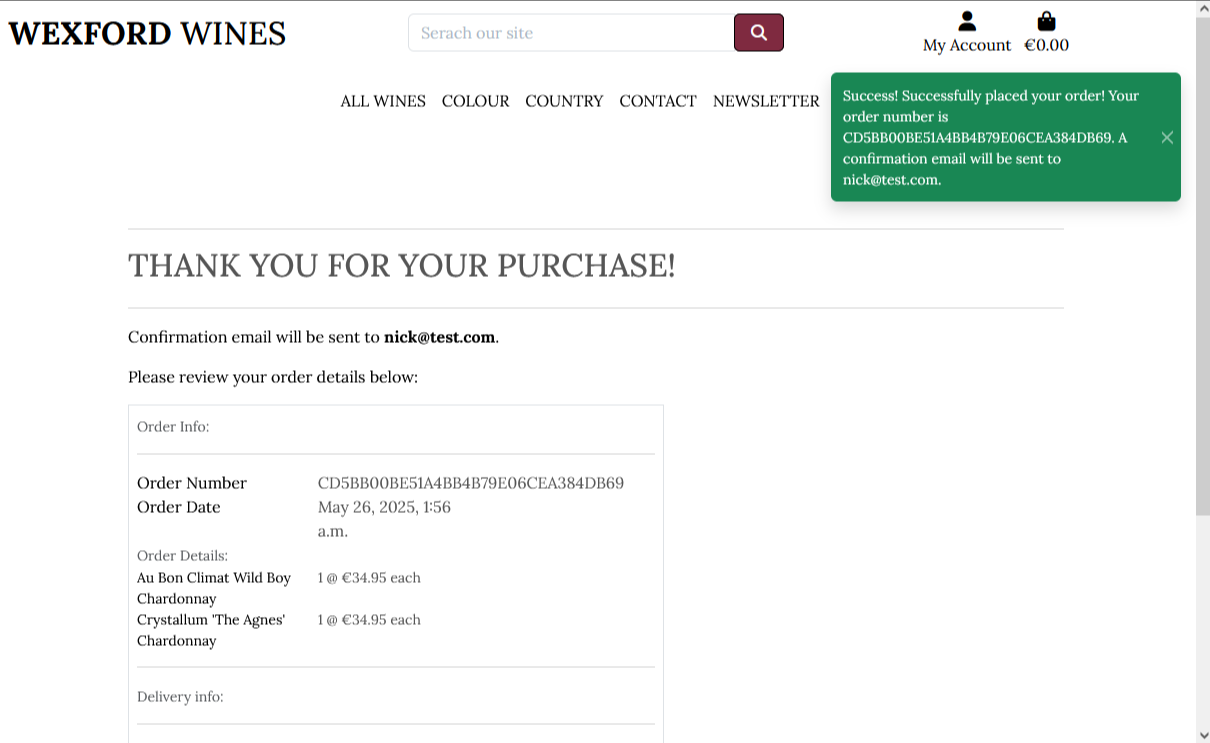
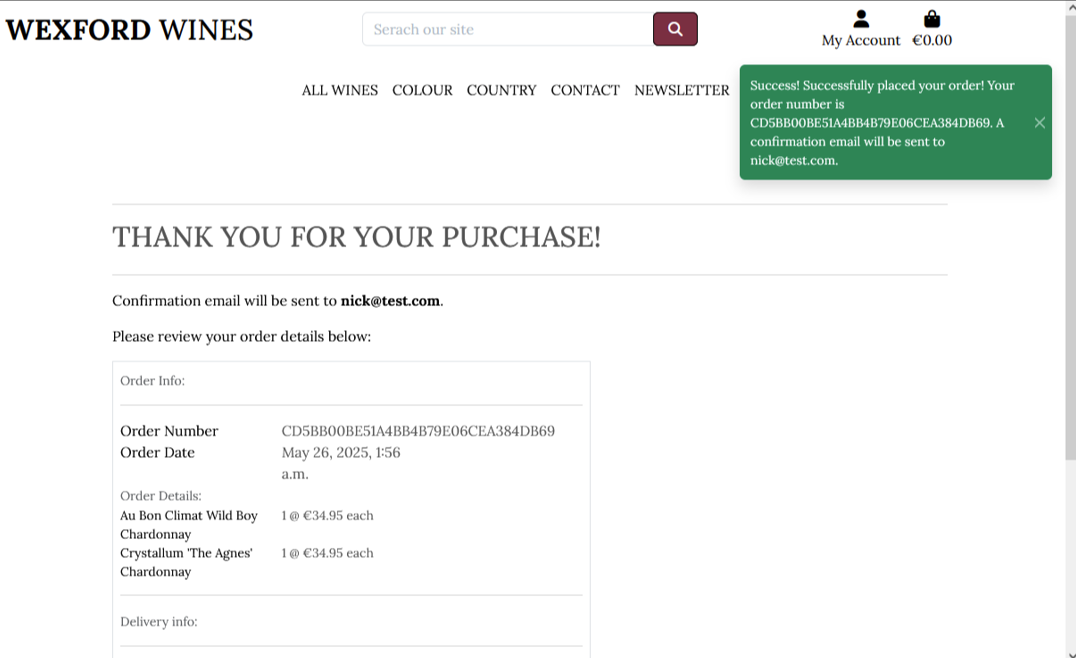
Fix broken image link in documentation

diff --git a/TESTING.md b/TESTING.md
@@ -182,7 +182,7 @@ Defensive programming was manually tested with the below user acceptance testing
 | Checkout | Feature is expected to display cart items, grand total, and input fields for checkout. | Proceeded to checkout with items in the cart. | Checkout page displayed cart items, total, and input fields as expected. | ![screenshot](documentation/defensive/checkout.png) |
 | | Feature is expected to allow secure payment via Stripe. | Entered valid card details using Stripe at checkout. | Payment was processed securely, and an order confirmation page was displayed. | ![screenshot](documentation/defensive/stripe-payment.png) |
 | | Feature is expected to send a confirmation email after purchase. | Completed a purchase and checked email inbox. | Confirmation email was received with order details. | ![screenshot](documentation/defensive/confirmation-email.png) |
-| | Feature is expected to display an order confirmation page with an order number. | Completed a purchase. | Order confirmation page displayed successfully with an order number. | ![screenshot](documentation/defensive/order-confirmation.png) |
+| | Feature is expected to display an order confirmation page with an order number. | Completed a purchase. | Order confirmation page displayed successfully with an order number. | ![screenshot](documentation/defensive/order-confirmation.PNG) |
 | Account Management | Feature is expected to allow returning customers to log in and view past orders. | Logged in as a returning customer and accessed order history. | Past orders were displayed correctly in the account section. | ![screenshot](documentation/defensive/order-history.png) |
 | | Feature is expected to remember the shipping address for returning customers. | Completed multiple checkouts as a returning customer. | Shipping address was pre-filled on subsequent purchases. | ![screenshot](documentation/defensive/saved-address.png) |
 | Admin Features | Feature is expected to allow the site owner to create new wines. | Created new wines with valid data (name, price, taste-profile, image, colour, country). | wines were added successfully and displayed on the site. | ![screenshot](documentation/defensive/create-wine.png) |
